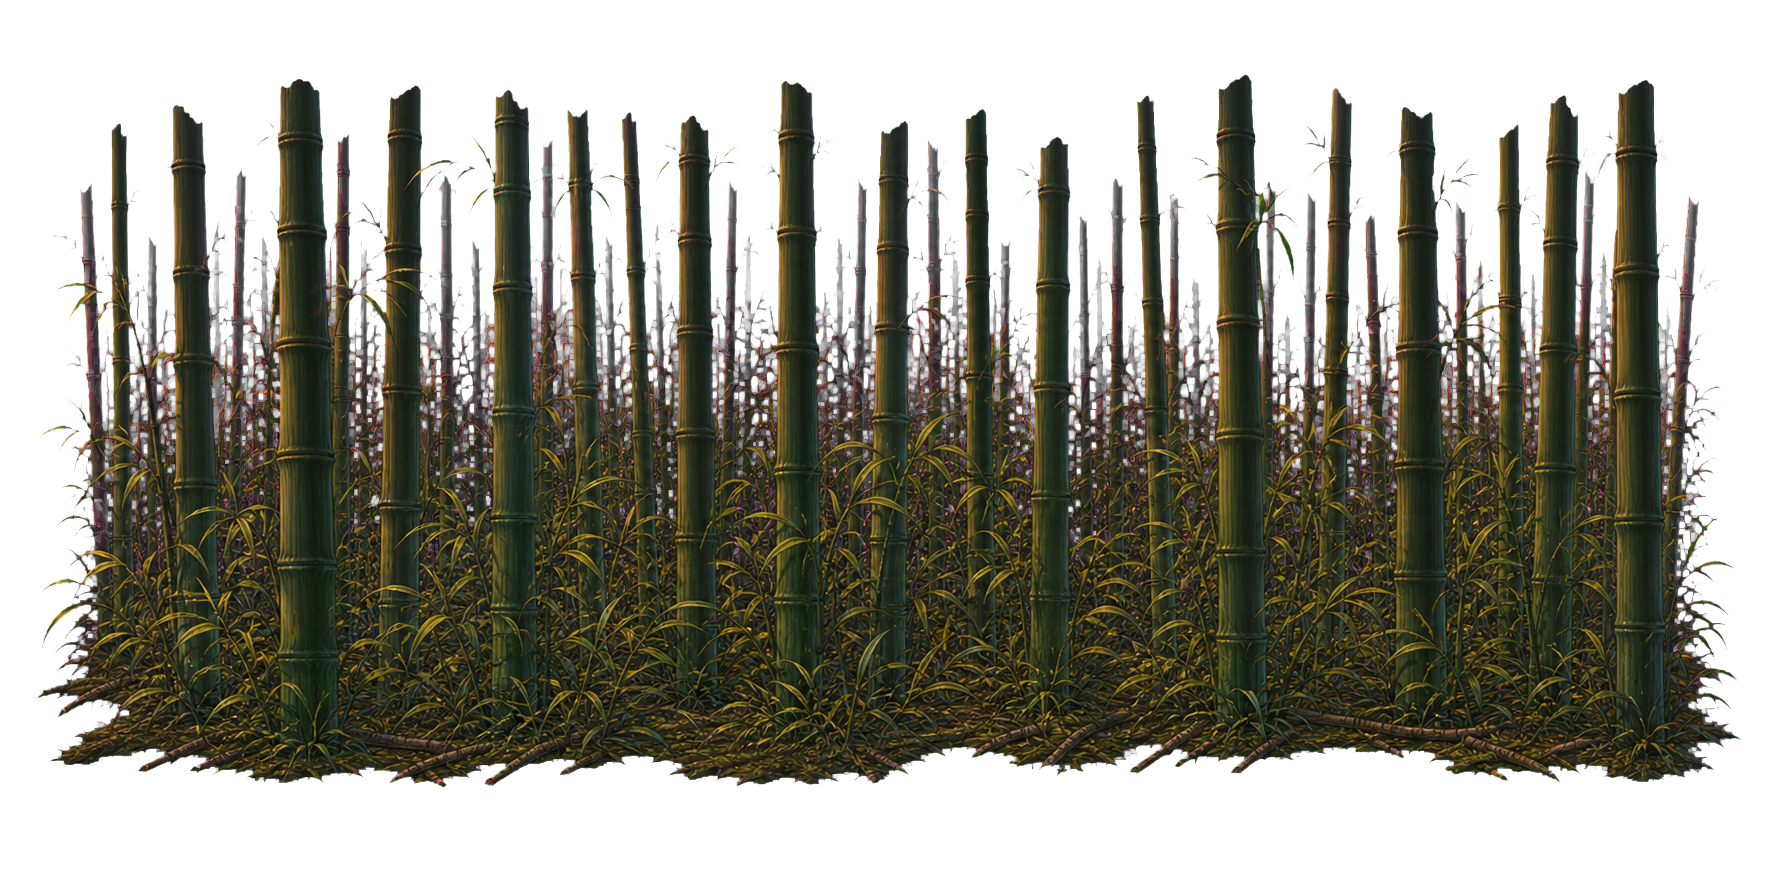
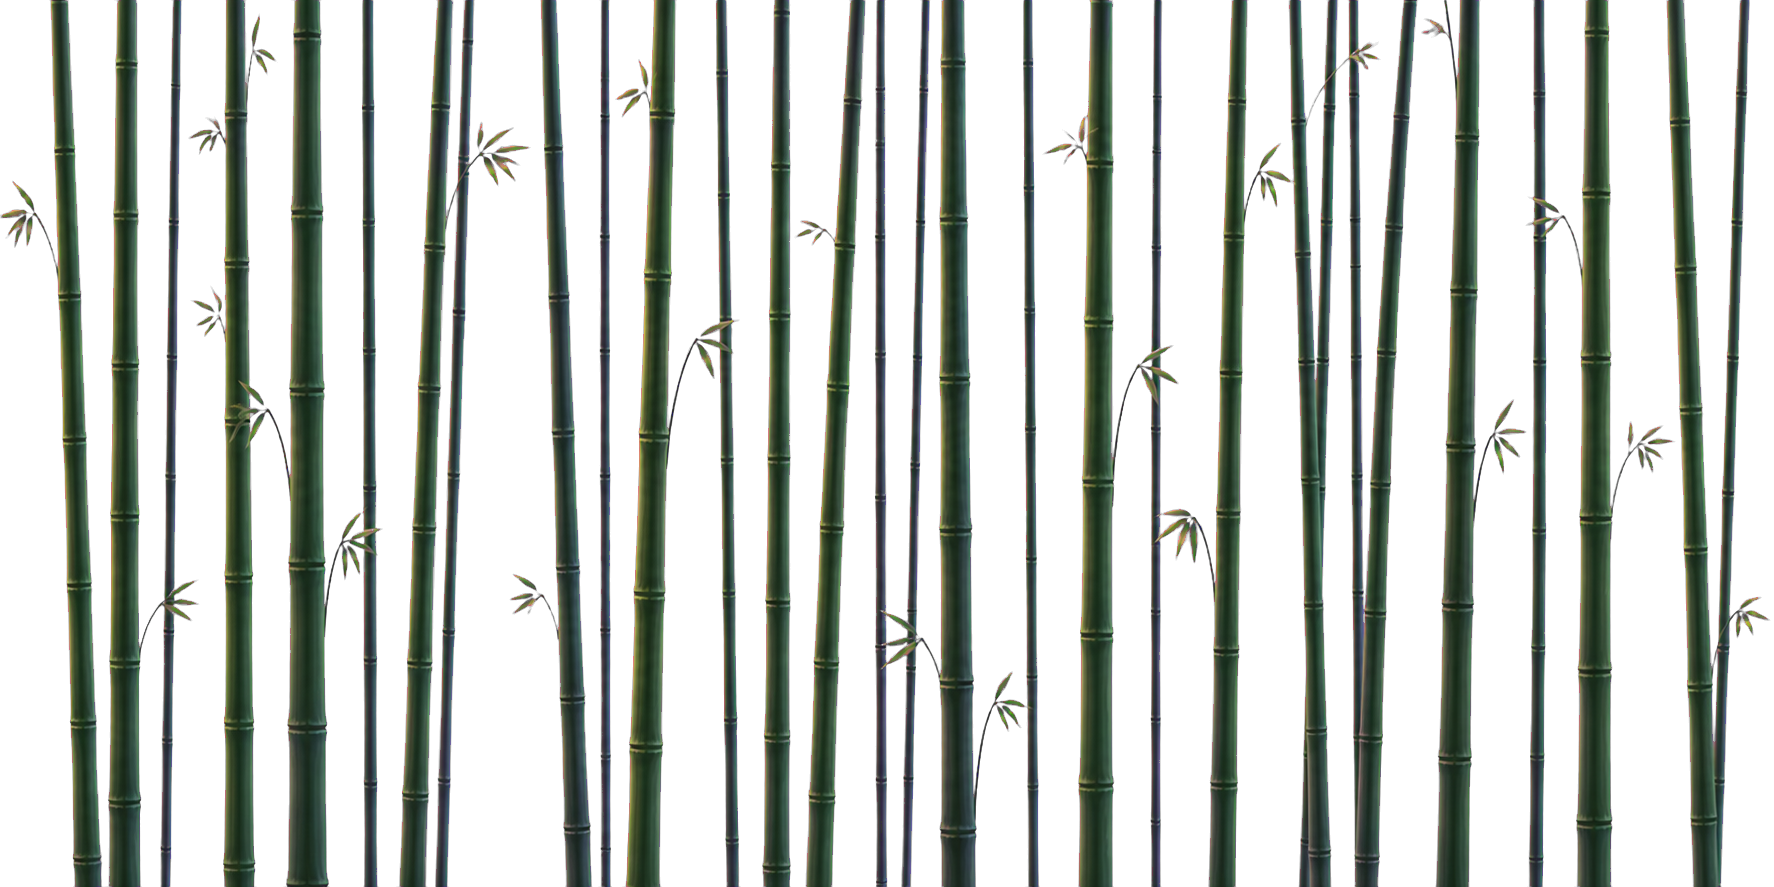
refactor: update Stage 1 background assets and re-implement bamboo parallax rendering logic with root screen overlay

diff --git a/js/stage.js b/js/stage.js
@@ -132,11 +132,11 @@ export class Stage {
             this.stage1GroundImage = new Image();
             this.stage1GroundImage.src = 'images/stage1_ground_bamboo_tile.png?v=20260707_ground2';
             this.stage1BambooBackLayerImage = new Image();
-            this.stage1BambooBackLayerImage.src = 'images/stage1_bamboo_back_layer.png?v=20260707_dense1';
+            this.stage1BambooBackLayerImage.src = 'images/stage1_bamboo_back_layer.png?v=20260707_slim1';
             this.stage1BambooMidLayerImage = new Image();
-            this.stage1BambooMidLayerImage.src = 'images/stage1_bamboo_mid_layer.png?v=20260707_dense1';
-            this.stage1BambooLastObjectImage = new Image();
-            this.stage1BambooLastObjectImage.src = 'images/stage1_bamboo_last_object.png?v=20260707_back2';
+            this.stage1BambooMidLayerImage.src = 'images/stage1_bamboo_mid_layer.png?v=20260707_slim1';
+            this.stage1BambooRootScreenImage = new Image();
+            this.stage1BambooRootScreenImage.src = 'images/stage1_bamboo_root_screen.png?v=20260707_root1';
         }
         if (this.stageNumber === 2) {
             this.stage2GroundImage = new Image();
@@ -2565,15 +2565,13 @@ export class Stage {
         // ステージ固有の背景要素
         this.renderStageElements(ctx, currentPalette);
 
-        // Stage1のラスト背景は通常竹レイヤー内で、右奥へ抜ける固定背景として描画する。
-
         // Stage2のラストオブジェクトは背景パララックスに混ぜず、地面と同じワールド座標で固定配置する。
         if (this.stageNumber === 2) {
             this.renderStage2MountainPassEntrance(ctx);
         }
 
         // ボス部屋の右側に次ステージへの「出入口」を描画。
-        // ※ Stage1（竹林）は専用の固定背景で右奥の抜け道を描くため、汎用peekは使わない。
+        // ※ Stage1（竹林）は通常背景を最後まで連続させるため、汎用peekは使わない。
         // ※ Stage2（街道）は山道入口をステージ内の通常背景として描画する。
         // ※ Stage5（城内）は画像ベースの階段（stairImage）が出口を兼ねるため peek は描かない。
         if (this.stageNumber >= 3 && this.stageNumber <= 4) {
@@ -3173,14 +3171,18 @@ export class Stage {
         bottomOffset = 28,
         phase = 0,
         widthScale = 1,
-        filter = 'none'
+        filter = 'none',
+        sourceBottomTrim = 0
     } = {}) {
         if (!image?.complete || image.naturalWidth <= 0 || image.naturalHeight <= 0) {
             return false;
         }
 
+        const trimRatio = Math.max(0, Math.min(0.4, sourceBottomTrim));
+        const sourceW = image.naturalWidth;
+        const sourceH = Math.max(1, Math.round(image.naturalHeight * (1 - trimRatio)));
         const drawH = Math.min(CANVAS_HEIGHT + 120, drawHeight);
-        const drawWidth = Math.ceil(drawH * (image.naturalWidth / image.naturalHeight) * widthScale);
+        const drawWidth = Math.ceil(drawH * (sourceW / sourceH) * widthScale);
         const bottomY = this.groundY + bottomOffset;
         const y = Math.round(bottomY - drawH);
         const scrollWorld = progress * parallax + phase;
@@ -3197,10 +3199,10 @@ export class Stage {
                 ctx.save();
                 ctx.translate(x + drawWidth + 2, y);
                 ctx.scale(-1, 1);
-                ctx.drawImage(image, 0, 0, drawWidth + 2, drawH);
+                ctx.drawImage(image, 0, 0, sourceW, sourceH, 0, 0, drawWidth + 2, drawH);
                 ctx.restore();
             } else {
-                ctx.drawImage(image, x, y, drawWidth + 2, drawH);
+                ctx.drawImage(image, 0, 0, sourceW, sourceH, x, y, drawWidth + 2, drawH);
             }
         }
         ctx.filter = 'none';
@@ -3215,96 +3217,25 @@ export class Stage {
         let rendered = false;
 
         rendered = this.renderStage1BambooTileLayer(ctx, backImage, progress, {
-            parallax: 0.1,
-            alpha: 0.3,
-            drawHeight: this.groundY + 108,
-            bottomOffset: 72,
+            parallax: 0.55,
+            alpha: 0.24,
+            drawHeight: this.groundY + 260,
+            bottomOffset: 128,
             phase: 250,
-            widthScale: 0.72,
-            filter: 'blur(0.65px) brightness(0.78) saturate(0.78) contrast(0.8)'
+            widthScale: 0.68,
+            filter: 'blur(0.65px) brightness(0.72) saturate(0.74) contrast(0.8)'
         }) || rendered;
         rendered = this.renderStage1BambooTileLayer(ctx, midImage, progress, {
-            parallax: 0.28,
-            alpha: 0.9,
-            drawHeight: this.groundY + 126,
-            bottomOffset: 88,
+            parallax: 0.78,
+            alpha: 0.7,
+            drawHeight: this.groundY + 270,
+            bottomOffset: 136,
             phase: 0,
-            widthScale: 0.74,
-            filter: 'brightness(0.88) saturate(0.92) contrast(1.02)'
+            widthScale: 0.64,
+            filter: 'brightness(0.76) saturate(0.82) contrast(0.9)'
         }) || rendered;
 
         return rendered;
-    }
-
-    getStage1BambooLastObjectLayout(progress = this.progress) {
-        if (this.stageNumber !== 1) return null;
-        const image = this.stage1BambooLastObjectImage;
-        if (!image?.complete || image.naturalWidth <= 0 || image.naturalHeight <= 0) {
-            return null;
-        }
-
-        const sourceX = 0;
-        const sourceY = 0;
-        const sourceW = image.naturalWidth;
-        const sourceH = image.naturalHeight;
-        const drawH = 430;
-        const drawW = Math.ceil(drawH * (sourceW / sourceH));
-        const cameraStopX = Math.max(0, this.maxProgress - CANVAS_WIDTH);
-        const worldX = cameraStopX + CANVAS_WIDTH - drawW + 78;
-        const x = Math.round(worldX - progress);
-        const y = Math.round(this.groundY + 86 - drawH);
-        if (x + drawW < -120 || x > CANVAS_WIDTH + 120) {
-            return null;
-        }
-        return { image, sourceX, sourceY, sourceW, sourceH, x, y, w: drawW, h: drawH };
-    }
-
-    renderStage1BambooLastObject(ctx, progress = this.progress) {
-        const layout = this.getStage1BambooLastObjectLayout(progress);
-        if (!layout) return false;
-
-        const buffer = this.cachedAssets.stage1LastObjectBuffer || document.createElement('canvas');
-        this.cachedAssets.stage1LastObjectBuffer = buffer;
-        if (buffer.width !== layout.w || buffer.height !== layout.h) {
-            buffer.width = layout.w;
-            buffer.height = layout.h;
-        }
-
-        const bctx = buffer.getContext('2d');
-        bctx.clearRect(0, 0, layout.w, layout.h);
-        bctx.filter = 'brightness(0.74) saturate(0.78) contrast(0.9) hue-rotate(-6deg)';
-        bctx.drawImage(
-            layout.image,
-            layout.sourceX, layout.sourceY, layout.sourceW, layout.sourceH,
-            0, 0, layout.w, layout.h
-        );
-        bctx.filter = 'none';
-
-        // ラスト画像は背景側の右奥だけに溶かし、地面は通常Stage1地面に任せる。
-        bctx.globalCompositeOperation = 'destination-in';
-        const horizontalMask = bctx.createLinearGradient(0, 0, layout.w, 0);
-        horizontalMask.addColorStop(0, 'rgba(0,0,0,0)');
-        horizontalMask.addColorStop(0.18, 'rgba(0,0,0,0.34)');
-        horizontalMask.addColorStop(0.34, 'rgba(0,0,0,0.86)');
-        horizontalMask.addColorStop(1, 'rgba(0,0,0,1)');
-        bctx.fillStyle = horizontalMask;
-        bctx.fillRect(0, 0, layout.w, layout.h);
-
-        const verticalMask = bctx.createLinearGradient(0, 0, 0, layout.h);
-        verticalMask.addColorStop(0, 'rgba(0,0,0,1)');
-        verticalMask.addColorStop(0.62, 'rgba(0,0,0,0.96)');
-        verticalMask.addColorStop(0.82, 'rgba(0,0,0,0.32)');
-        verticalMask.addColorStop(0.96, 'rgba(0,0,0,0)');
-        verticalMask.addColorStop(1, 'rgba(0,0,0,0)');
-        bctx.fillStyle = verticalMask;
-        bctx.fillRect(0, 0, layout.w, layout.h);
-        bctx.globalCompositeOperation = 'source-over';
-
-        ctx.save();
-        ctx.globalAlpha *= 0.84;
-        ctx.drawImage(buffer, layout.x, layout.y);
-        ctx.restore();
-        return true;
     }
 
 	renderStageElements(ctx, currentPalette) {
@@ -3316,7 +3247,6 @@ export class Stage {
         switch (currentPalette.elements) {
             case 'bamboo': {
                 this.renderStage1BambooImageBackdrop(ctx, p);
-                this.renderStage1BambooLastObject(ctx, p);
                 break;
             }
                 
@@ -3707,13 +3637,38 @@ export class Stage {
 
         const rootWash = ctx.createLinearGradient(0, horizonY - 68, 0, horizonY + 118);
         rootWash.addColorStop(0, 'rgba(17, 43, 27, 0)');
-        rootWash.addColorStop(0.3, `rgba(20, 55, 31, ${(0.06 + darken * 0.025).toFixed(3)})`);
-        rootWash.addColorStop(0.64, `rgba(32, 45, 25, ${(0.08 + darken * 0.03).toFixed(3)})`);
+        rootWash.addColorStop(0.3, `rgba(20, 55, 31, ${(0.16 + darken * 0.035).toFixed(3)})`);
+        rootWash.addColorStop(0.64, `rgba(32, 45, 25, ${(0.18 + darken * 0.04).toFixed(3)})`);
         rootWash.addColorStop(1, 'rgba(20, 28, 18, 0)');
         ctx.fillStyle = rootWash;
         ctx.fillRect(0, bandTop, CANVAS_WIDTH, bandBottom - bandTop);
 
+        this.renderStage1RootScreenImage(ctx, renderProgress, darken);
+
         ctx.restore();
+    }
+
+    renderStage1RootScreenImage(ctx, renderProgress, darken) {
+        const image = this.stage1BambooRootScreenImage;
+        if (!image?.complete || image.naturalWidth <= 0 || image.naturalHeight <= 0) {
+            return false;
+        }
+
+        const drawH = 104;
+        const drawW = Math.ceil(drawH * (image.naturalWidth / image.naturalHeight));
+        const y = Math.round(this.groundY - 76);
+        const scroll = Math.floor((renderProgress * 0.92) % drawW);
+        const startX = -scroll - drawW;
+
+        ctx.save();
+        ctx.globalAlpha *= 0.88;
+        ctx.filter = `brightness(${(0.76 - darken * 0.06).toFixed(3)}) saturate(0.74) contrast(0.92)`;
+        for (let x = startX; x < CANVAS_WIDTH + drawW; x += drawW) {
+            ctx.drawImage(image, x, y, drawW + 2, drawH);
+        }
+        ctx.filter = 'none';
+        ctx.restore();
+        return true;
     }
 
     renderGroundBamboo(ctx, renderProgress, darken) {
@@ -3730,7 +3685,7 @@ export class Stage {
         ctx.fillRect(0, horizonY, CANVAS_WIDTH, span);
 
         if (this.renderGroundImageTile(ctx, this.stage1GroundImage, horizonY, bottomY, renderProgress, {
-            filter: 'brightness(0.9) saturate(0.88) contrast(0.94)',
+            filter: 'brightness(0.96) saturate(0.82) contrast(0.9) hue-rotate(8deg)',
             extraHeight: 34,
             yOffset: -16
         })) {
